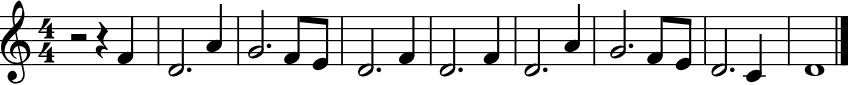
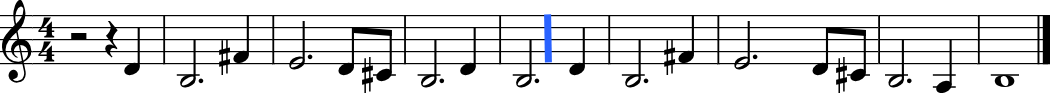
nau

diff --git a/songs/04-11etazh.html b/songs/04-11etazh.html
@@ -5462,7 +5462,7 @@ B                     Em
             </div>
         </div>
 
-        <div class="accordion" artist="Нау" song="Дыханье" keycustom="Dm" voice="Blow.Sax" hash="q9fq1bk8kgt6n52">
+        <div class="accordion" artist="Нау" song="Дыханье" keycustom="Bm" voice="Blow.Sax" hash="q9fq1bk8kgt6n52">
             <button class="toggle-button">
                 <chord>https://amdm.ru/akkordi/butusov_vyacheslav/107497/dyhanie/</chord>
                 <yt>https://www.youtube.com/watch?v=joPrHoNQI7M</yt>
@@ -5471,59 +5471,50 @@ B                     Em
                 
 <song>
 <intro><img imagetype="scores" data-src=nau.dyhanye.1.png>
-Dm | C | Dm | A# <bblue>x2</bblue></intro>
+Bm | A | Bm | G <bblue>x2</bblue></intro>
 <verse><span class="voice">EPiano</span>
 <img imagetype="scores" data-src=nau.dyhanye.2.png>
-F           C             Dm
+D           A             Bm
 Я просыпаюсь в холодном поту,
-           A               A#
+           F#               G
 Я просыпаюсь в кошмарном бреду,
-                 F         Gm
+                 D         Em
 Как будто дом наш залило водой
-                       Dm
-И что в живых остались только мы с тобой.
-
-F             C            Dm
+                       Bm
+И что в живых остались только мы с тобой.</verse>
+<prechorus hash="kky4zxtlg4euotf">
+D             A            Bm
 И что над нами километры воды,
-             A                A#
+             F#                G
 И что над нами бьют хвостами киты,
-           F                Gm
+           D                Em
 И кислорода не хватит на двоих.
-              Dm
-Я лежу в темноте.</verse>
-<chorus>Dm           C
+              Bm
+Я лежу в темноте.</prechorus>
+<chorus>Bm           A
 Слушая наше дыхание,
-    Dm           A#
+    Bm           G
 Я слушаю наше дыхание.
-Dm                       C
+   Bm                       A
 Я раньше и не думал, что у нас
-    Dm                      A#
+      Bm                      G
 На двоих с тобой одно лишь дыхание.
-Dm
-Дыхание.
-</chorus>
+   Bm
+Дыхание.</chorus>
 <instr><span class="voice">Blow.Sax</span>
 <img imagetype="scores" data-src=nau.dyhanye.1.png>
-Dm | C | Dm | A# <bblue>x2</bblue></instr>
+Bm | A | Bm | G <bblue>x2</bblue></instr>
 <verse><span class="voice">EPiano</span>
 <img imagetype="scores" data-src=nau.dyhanye.2.png>
-F        C              Dm
+D        A              Bm
 Я пытаюсь разучиться дышать,
-             A             A#
+             F#             G
 Чтоб тебе хоть на минуту отдать
-          F                Gm
+          D                Em
 Того газа, что не умели ценить.
-                   Dm
-Но ты спишь и не знаешь...
-
-F           C            Dm
-Что над нами километры воды
-              A                A#
-И что над нами бьют хвостами киты,
-           F                 Gm
-И кислорода не хватит на двоих.
-               Dm
-Я лежу в темноте.</verse>
+                   Bm
+Но ты спишь и не знаешь...</verse>
+<prechorus hashreference="kky4zxtlg4euotf"></prechorus>
 <chorus><bblue>x4</bblue> <bblue>со второго раза добавляется немного Brass - Blow.Sax</bblue>
 <bblue>вариации на гланую тему</bblue>
 </chorus>

diff --git a/songs/07-aqsaqal.html b/songs/07-aqsaqal.html
@@ -231,7 +231,7 @@ Em Am B Em
             </div>
         </div>
 
-        <div class="accordion" artist="Борис Ласкин" song="Три танкиста" key="Em" hash="d7r62i9ztuq2nbm">
+        <div class="accordion" artist="Борис Ласкин" song="Три танкиста" key="Em" voice="Accordion" hash="d7r62i9ztuq2nbm">
             <button class="toggle-button">
                 <chord></chord>
                 <yt>https://www.youtube.com/watch?v=EkDLox-OMZM</yt>
@@ -1328,7 +1328,7 @@ G                Cm  Cm/Bb
             </div>
         </div>
 
-        <div class="accordion" artist="KZ Газманов" song="Офицеры " keycustom="Em" voice="FullStrings" hash="mdcbxwx4met913d">
+        <div class="accordion" artist="KZ Газманов" song="Офицеры " keycustom="Em" voice="Accordion" hash="mdcbxwx4met913d">
             <button class="toggle-button">
                 <chord></chord>
                 <yt>https://www.youtube.com/watch?v=tx5kUtWKnPI</yt>

diff --git a/songs/12-sok.html b/songs/12-sok.html
@@ -1404,15 +1404,12 @@ F#m   A                  E
 <chorus hashreference="36zhalua7xgyn5h"></chorus>
 <instr><span class="square-green-button">2</span>
 <img imagetype="scores" data-src="maxim.santimetry.5.png"></instr>
-<coda><bblue>вариации</bblue>
-<img imagetype="scores" data-src="maxim.santimetry.7.png">
-A        C#m
-Я помню
-A        C#m
-Я слышу
-F#m      A   E
-Я знаю
-</coda>
+<coda>F#m              A
+Я помню каждый взмах
+E               C#m
+Я слышу каждый ветер
+F#m     A               E  
+Я знаю    сантиметры дыхания</coda>
 </song>
             </div>
     </div>
